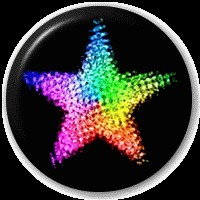
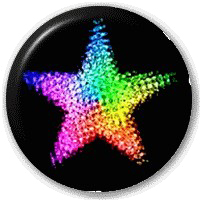
sup breh

diff --git a/badges.html b/badges.html
@@ -65,7 +65,7 @@
 							</li>
 								
 							<li><div class="badge columns center_all">
-								<a href="./badges/the_winestar.html"><img src="./images/rainbow_star.png" /></a>
+								<a href="./badges/the_winestar.html"><img src="./images/rainbow_star.jpeg" /></a>
 								<p><a href="#" class="description">The Wine Star</a></p></div>
 							</li>
 							
@@ -80,7 +80,7 @@
 							</li>
 								
 							<li><div class="badge columns center_all">
-								<a href="./badges/the_vet.html"><img src="./images/keep_calm.png" /></a>
+								<a href="./badges/the_vet.html"><img src="./images/keep_calm.jpg" /></a>
 								<p><a href="./badges/the_vet.html" class="description">The Vet</a></p></div>
 							</li>
 

diff --git a/wine.html b/wine.html
@@ -29,9 +29,7 @@
 		tr{border: 1px solid grey; text-align:left}
 	</style>
 
-
-	<script type="text/javascript"
-	        src="https://maps.googleapis.com/maps/api/js?key=AIzaSyCO667Z5BxNMNrggUtjLSKsG9CDgHAc3e8&sensor=true"></script>
+	<script type="text/javascript" src="https://maps.googleapis.com/maps/api/js?key=AIzaSyCO667Z5BxNMNrggUtjLSKsG9CDgHAc3e8&sensor=true"></script>
 
 	<!-- Google web fonts -->
 	<link href='http://fonts.googleapis.com/css?family=Ubuntu:700' rel='stylesheet' type='text/css'>
